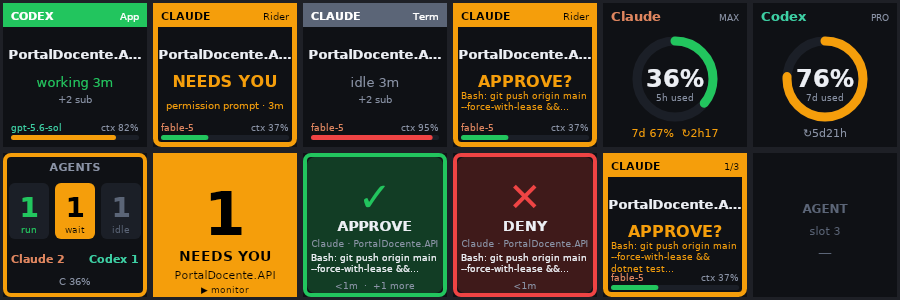
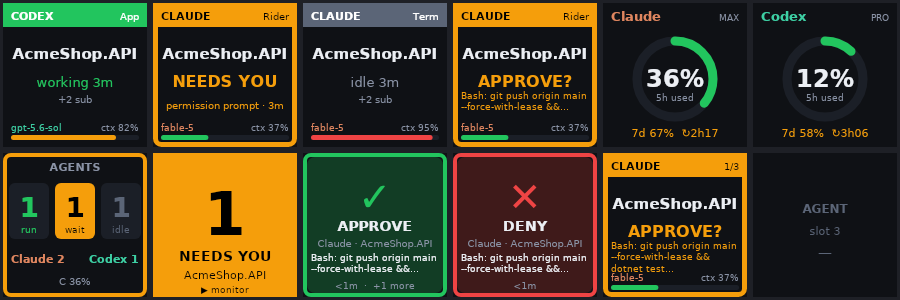
Use neutral project names in tests, samples and the docs image
Test fixtures and the --render samples referred to real projects, and
docs/keys.png was rendered from a live snapshot; both now use synthetic,
neutral data only.

diff --git a/src/Opendeck.AiAgentMonitor/Program.cs b/src/Opendeck.AiAgentMonitor/Program.cs
@@ -40,15 +40,16 @@ if (args.Length > 0 && args[0].StartsWith("--"))
             for (var i = 0; i < ordered.Count; i++) { Save($"agent-{i + 1}", r.AgentKey(ordered[i], now)); Save($"selected-{i + 1}", r.AgentKey(ordered[i], now, i + 1, ordered.Count)); }
             Save("empty-slot", r.EmptySlot(3, null));
             // synthetic samples so every state can be eyeballed
-            var sample = new AgentInfo { Key = "x", Provider = Provider.Claude, Name = "demo", Cwd = "/home/x/source/PortalDocente.API", Host = "Rider", State = AgentState.Waiting, StateSince = now.AddMinutes(-3), LastActivity = now, StartedAt = now.AddHours(-1), Model = "claude-fable-5", ContextPct = 37, Detail = "permission prompt", SubAgents = 2 };
+            var sample = new AgentInfo { Key = "x", Provider = Provider.Claude, Name = "demo", Cwd = "/home/dev/source/AcmeShop.API", Host = "Rider", State = AgentState.Waiting, StateSince = now.AddMinutes(-3), LastActivity = now, StartedAt = now.AddHours(-1), Model = "claude-fable-5", ContextPct = 37, Detail = "permission prompt", SubAgents = 2 };
             Save("sample-waiting", r.AgentKey(sample, now));
             Save("sample-working", r.AgentKey(sample with { Provider = Provider.Codex, State = AgentState.Working, Detail = null, Model = "gpt-5.6-sol", Host = "App", ContextPct = 82 }, now));
             Save("sample-idle", r.AgentKey(sample with { State = AgentState.Idle, Detail = null, Host = "Term", ContextPct = 95 }, now));
             var q = new ProviderQuota { Provider = Provider.Claude, FetchedAt = now, Plan = "max", Windows = new[] { new QuotaWindow("5h", 36, now.AddHours(2.3)), new QuotaWindow("7d", 67, now.AddDays(1)) } };
             Save("sample-quota", r.QuotaKey(Provider.Claude, q, now));
+            Save("sample-quota-codex", r.QuotaKey(Provider.Codex, new ProviderQuota { Provider = Provider.Codex, FetchedAt = now, Plan = "pro", Windows = new[] { new QuotaWindow("5h", 12, now.AddHours(3.1)), new QuotaWindow("7d", 58, now.AddDays(4)) } }, now));
             var snap = new Snapshot { Agents = new[] { sample, sample with { Key = "y", State = AgentState.Working }, sample with { Key = "z", Provider = Provider.Codex, State = AgentState.Idle } }, At = now, Claude = q };
             Save("sample-overview", r.OverviewKey(snap, now));
-            var reqInput = JsonDocument.Parse("{\"command\":\"git push origin main --force-with-lease && dotnet test tests/VH.Olho.Core.Tests --no-build\",\"description\":\"Push and run the core tests\"}").RootElement.Clone();
+            var reqInput = JsonDocument.Parse("{\"command\":\"git push origin main --force-with-lease && dotnet test tests/AcmeShop.Core.Tests --no-build\",\"description\":\"Push and run the core tests\"}").RootElement.Clone();
             var req = new PendingApproval { Id = "t1", Provider = Provider.Claude, AgentKey = "x", SessionId = "x", Cwd = sample.Cwd, ToolName = "Bash", ToolInput = reqInput, Summary = PendingApproval.Summarize("Bash", reqInput) };
             Save("sample-approve", r.DecisionKey(req, sample, true, 1, now));
             Save("sample-deny", r.DecisionKey(req, sample, false, 0, now));

diff --git a/tests/Opendeck.AiAgentMonitor.Tests/WindowMatchingTests.cs b/tests/Opendeck.AiAgentMonitor.Tests/WindowMatchingTests.cs
@@ -6,23 +6,23 @@ namespace Opendeck.AiAgentMonitor.Tests;
 
 public class WindowMatchingTests
 {
-    private static readonly string[] Names = { "api", "PortalDocenteAPI" };
+    private static readonly string[] Names = { "api", "AcmeShopAPI" };
 
     [Theory]
-    [InlineData("Terminal - PortalDocenteAPI", 40)]                          // detached terminal of this project → best for Claude
-    [InlineData("PortalDocenteAPI", 20)]                                     // main IDE window
-    [InlineData("PortalDocenteAPI – ~/source/portaldocente/api/README.md", 20)]
+    [InlineData("Terminal - AcmeShopAPI", 40)]                          // detached terminal of this project → best for Claude
+    [InlineData("AcmeShopAPI", 20)]                                     // main IDE window
+    [InlineData("AcmeShopAPI – ~/source/acme/api/README.md", 20)]
     [InlineData("Terminal - Other", 0)]
     [InlineData("Some window mentioning api", 10)]
-    [InlineData("Codex - PortalDocenteAPI", 30)]                             // another detached tool window
+    [InlineData("Codex - AcmeShopAPI", 30)]                             // another detached tool window
     public void ScoresIdeWindowTitles(string title, int expected)
         => Assert.Equal(expected, WindowFocuser.ScoreTitle(title, Names, Provider.Claude));
 
     [Fact]
     public void DetachedTerminalBeatsMainWindowEvenWhenDirectoryNameDiffers()
     {
-        var main = WindowFocuser.ScoreTitle("PortalDocenteAPI", Names, Provider.Claude);
-        var terminal = WindowFocuser.ScoreTitle("Terminal - PortalDocenteAPI", Names, Provider.Claude);
+        var main = WindowFocuser.ScoreTitle("AcmeShopAPI", Names, Provider.Claude);
+        var terminal = WindowFocuser.ScoreTitle("Terminal - AcmeShopAPI", Names, Provider.Claude);
         Assert.True(terminal > main);
     }
 
@@ -33,13 +33,13 @@ public class WindowMatchingTests
         var cwd = Path.Combine(root, "src", "api");
         Directory.CreateDirectory(cwd);
         Directory.CreateDirectory(Path.Combine(root, ".git"));
-        Directory.CreateDirectory(Path.Combine(cwd, ".idea", ".idea.PortalDocenteAPI"));
+        Directory.CreateDirectory(Path.Combine(cwd, ".idea", ".idea.AcmeShopAPI"));
         File.WriteAllText(Path.Combine(cwd, "Portal.sln"), "");
         try
         {
             var names = WindowFocuser.ProjectNames(cwd);
             Assert.Equal("api", names[0]);
-            Assert.Contains("PortalDocenteAPI", names);
+            Assert.Contains("AcmeShopAPI", names);
             Assert.Contains("Portal", names);
             Assert.Contains(Path.GetFileName(root), names);
         }

diff --git a/tests/Opendeck.AiAgentMonitor.Tests/ApprovalTests.cs b/tests/Opendeck.AiAgentMonitor.Tests/ApprovalTests.cs
@@ -22,12 +22,12 @@ public class ApprovalTests
     [Fact]
     public void SummarizesCodexPatchesByTouchedFiles()
     {
-        var patch = "*** Begin Patch\n*** Update File: /home/u/src/VH.Olho/Program.cs\n@@\n-a\n+b\n*** Add File: docs/notes.md\n+hi\n*** Delete File: old.txt\n*** End Patch";
+        var patch = "*** Begin Patch\n*** Update File: /home/u/src/AcmeShop/Program.cs\n@@\n-a\n+b\n*** Add File: docs/notes.md\n+hi\n*** Delete File: old.txt\n*** End Patch";
         var input = Input(JsonSerializer.Serialize(new { input = patch }));
-        Assert.Equal("apply_patch: Update VH.Olho/Program.cs, Add docs/notes.md (+1 more)", PendingApproval.Summarize("apply_patch", input));
-        Assert.Equal(new[] { "Update VH.Olho/Program.cs", "Add docs/notes.md", "Delete old.txt" }, PendingApproval.PatchFiles(patch));
+        Assert.Equal("apply_patch: Update AcmeShop/Program.cs, Add docs/notes.md (+1 more)", PendingApproval.Summarize("apply_patch", input));
+        Assert.Equal(new[] { "Update AcmeShop/Program.cs", "Add docs/notes.md", "Delete old.txt" }, PendingApproval.PatchFiles(patch));
         var p = new PendingApproval { Id = "t", Provider = Provider.Codex, AgentKey = "codex:t", SessionId = "t", Cwd = "/p", ToolName = "apply_patch", Summary = "x", ToolInput = input };
-        Assert.StartsWith("apply_patch:\nUpdate VH.Olho/Program.cs\nAdd docs/notes.md\nDelete old.txt\n\n*** Begin Patch", ApprovalNotifier.FullText(p));
+        Assert.StartsWith("apply_patch:\nUpdate AcmeShop/Program.cs\nAdd docs/notes.md\nDelete old.txt\n\n*** Begin Patch", ApprovalNotifier.FullText(p));
     }
 
     [Fact]
